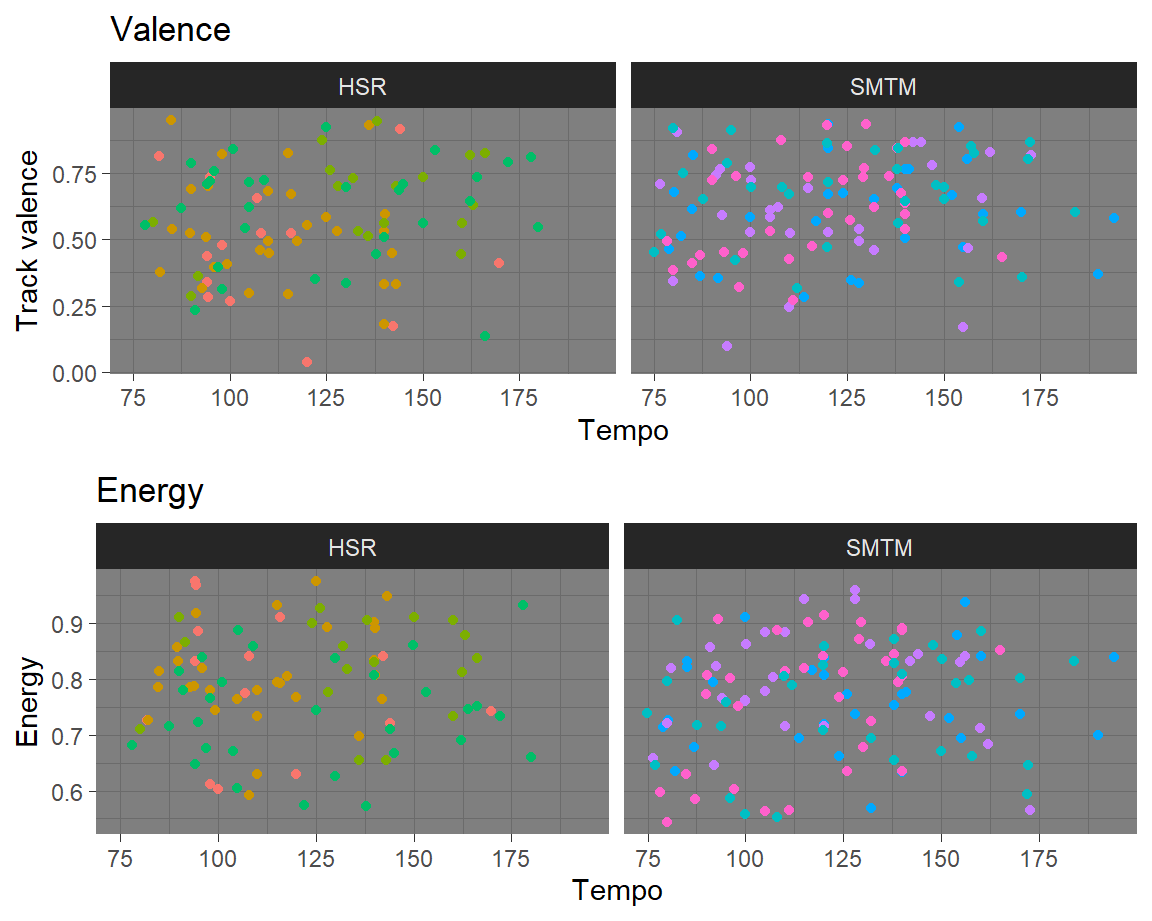
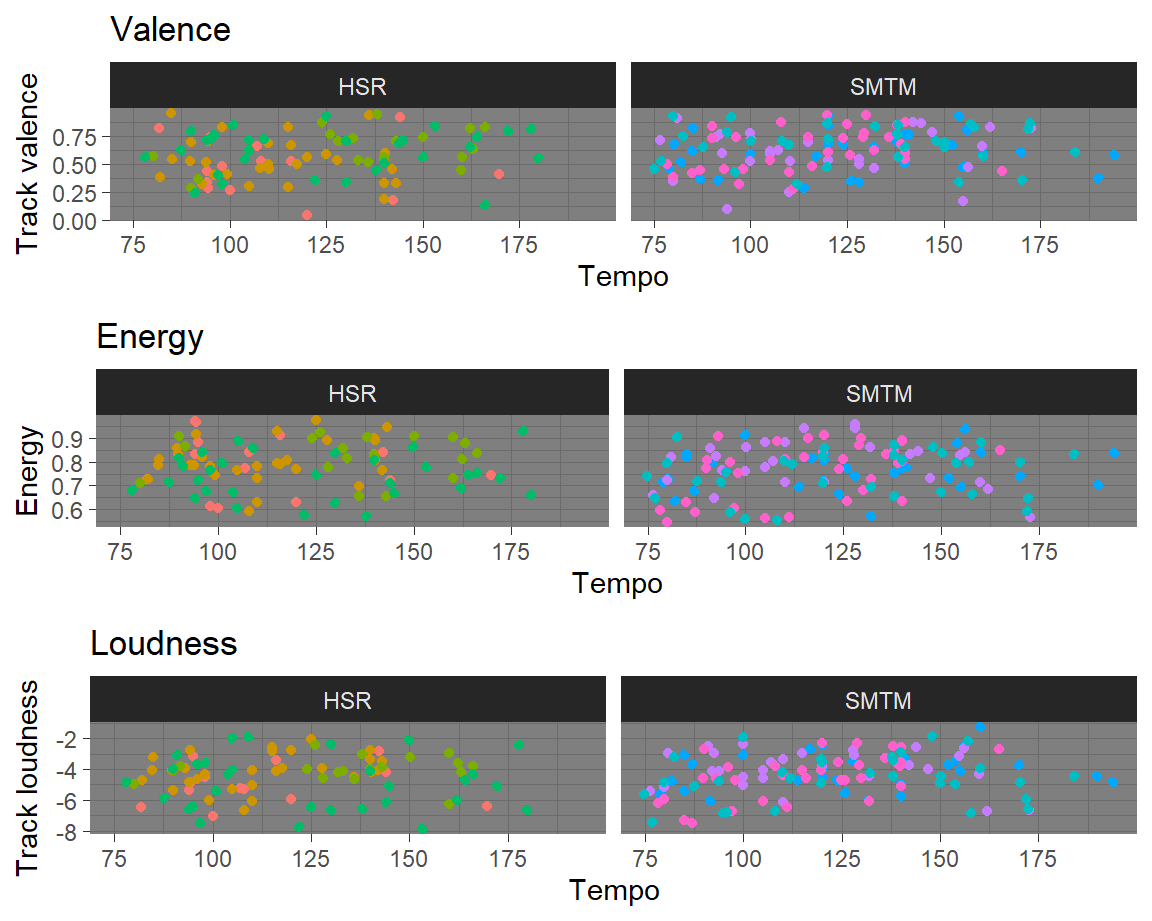
Okay this is really the final commit

diff --git a/index.html b/index.html
@@ -782,6 +782,7 @@ html, body {
 <img class="mobile-figure" data-mobile-figure-id=fig3 src="index_files/figure-html/unnamed-chunk-3-1.mb.png" />
 <img class="mobile-figure" data-mobile-figure-id=fig4 src="index_files/figure-html/unnamed-chunk-4-1.mb.png" />
 <img class="mobile-figure" data-mobile-figure-id=fig5 src="index_files/figure-html/unnamed-chunk-5-1.mb.png" />
+<img class="mobile-figure" data-mobile-figure-id=fig6 src="index_files/figure-html/unnamed-chunk-6-1.mb.png" />
 <script type="text/javascript">
 
 
@@ -2626,7 +2627,7 @@ included for each show.</p>
 <div class="knitr-options" data-fig-width="576" data-fig-height="460">
 
 </div>
-<p><img src="index_files/figure-html/unnamed-chunk-1-1.png" width="576" data-figure-id=fig1 /></p>
+<p><img src="index_files/figure-html/unnamed-chunk-1-1.png" width="576" data-figure-id=fig1 style="display: block; margin: auto;" /></p>
 <hr />
 <p>Starting off with unquestionably the most important metric of all:
 Tempo.</p>
@@ -2674,6 +2675,9 @@ somehow ended up not being that low: The rapper Vinxen that appeared in
 season 2 of Highschool rapper told some of the most depressing stories
 in his lyrics with generally higher tempo-songs such as “Barcode” and
 “Cause”.</p>
+<p>Last but not least the loudness graph similarly shows some areas
+where seasons seem to achieve similar loudness in close vicinity but the
+wide array of songs still allows for outliers.</p>
 <p>Compared to HSR, SMTM has never seen a significantly negative or
 positive artist that made it onto albums.</p>
 <iframe style="border-radius:12px" src="https://open.spotify.com/embed/track/1Buq5ciDCgi4xmh36BiXHa?utm_source=generator" width="100%" height="80" frameBorder="0" allowfullscreen allow="autoplay; clipboard-write; encrypted-media; fullscreen; picture-in-picture">
@@ -2686,14 +2690,13 @@ positive artist that made it onto albums.</p>
 </div>
 <p><img src="index_files/figure-html/unnamed-chunk-3-1.png" width="576" data-figure-id=fig3 /></p>
 <hr />
-<p>As the usage of beats made by producers heavily depends on whether
-they are part of a team in a season. Similarly finding out what season
-songs are expected to be from (especially with newer trends emerging)
-also seemed interesting. When trying to predict both using the kmeans
-algorithm (with 15 and 8 centers respectively) the results turned out
-quite interesting. Depending on the producer the results were better
-than others, which I found not very surprising. Especially the producer
-Code Kunst has been a mainstay in SMTM and the different classifications
+<p>Finding out what season songs are expected to be from (especially
+with newer trends emerging) seemed interesting as well so I tried this
+using the k-means algorithm. When trying to predict using the k-means
+algorithm (with 8 centers for every season) the results turned out quite
+interesting. Depending on the producer the results were better than
+others, which I found not very surprising. Especially the producer Code
+Kunst has been a mainstay in SMTM and the different classifications
 could very well be more about the different flavours he brought to
 different seasons. Another argument that could be made is that producers
 tend to search for beats that fit particularly well with a given artist
@@ -2741,6 +2744,25 @@ flute part in the chorus spreads across so many different pitches. This
 is very apparent as around 60 seconds and again 120 seconds the
 intensity of pitches that were not used in the first 60 seconds spike up
 instantly.</p>
+</div>
+<div id="timbre-merry-go-round" class="section level3">
+<h3>Timbre: Merry-go-round</h3>
+<div class="knitr-options" data-fig-width="576" data-fig-height="460">
+
+</div>
+<p><img src="index_files/figure-html/unnamed-chunk-6-1.png" width="576" data-figure-id=fig6 style="display: block; margin: auto;" /></p>
+<hr />
+<p>Last but not least I present to you a cepstrogram of one of my
+favourite songs of the most recent season: Merry-go-round</p>
+<p>What really makes this song different from all other songs in the
+data set is that the theme of the song is very playful and childish.
+Despite not scoring highly on the show itself the song went on to score
+very well on Korean music charts suggesting that the popularity of the
+song spread out further than just the general audience watching Show me
+The money.</p>
+<p>In the cepstrogram it is very apparent that the circus-like feel that
+the song has is visible through the many distinct tone qualities present
+throughout the song.</p>
 </div>
 <div id="concluding-thoughts" class="section level3">
 <h3>Concluding thoughts</h3>
